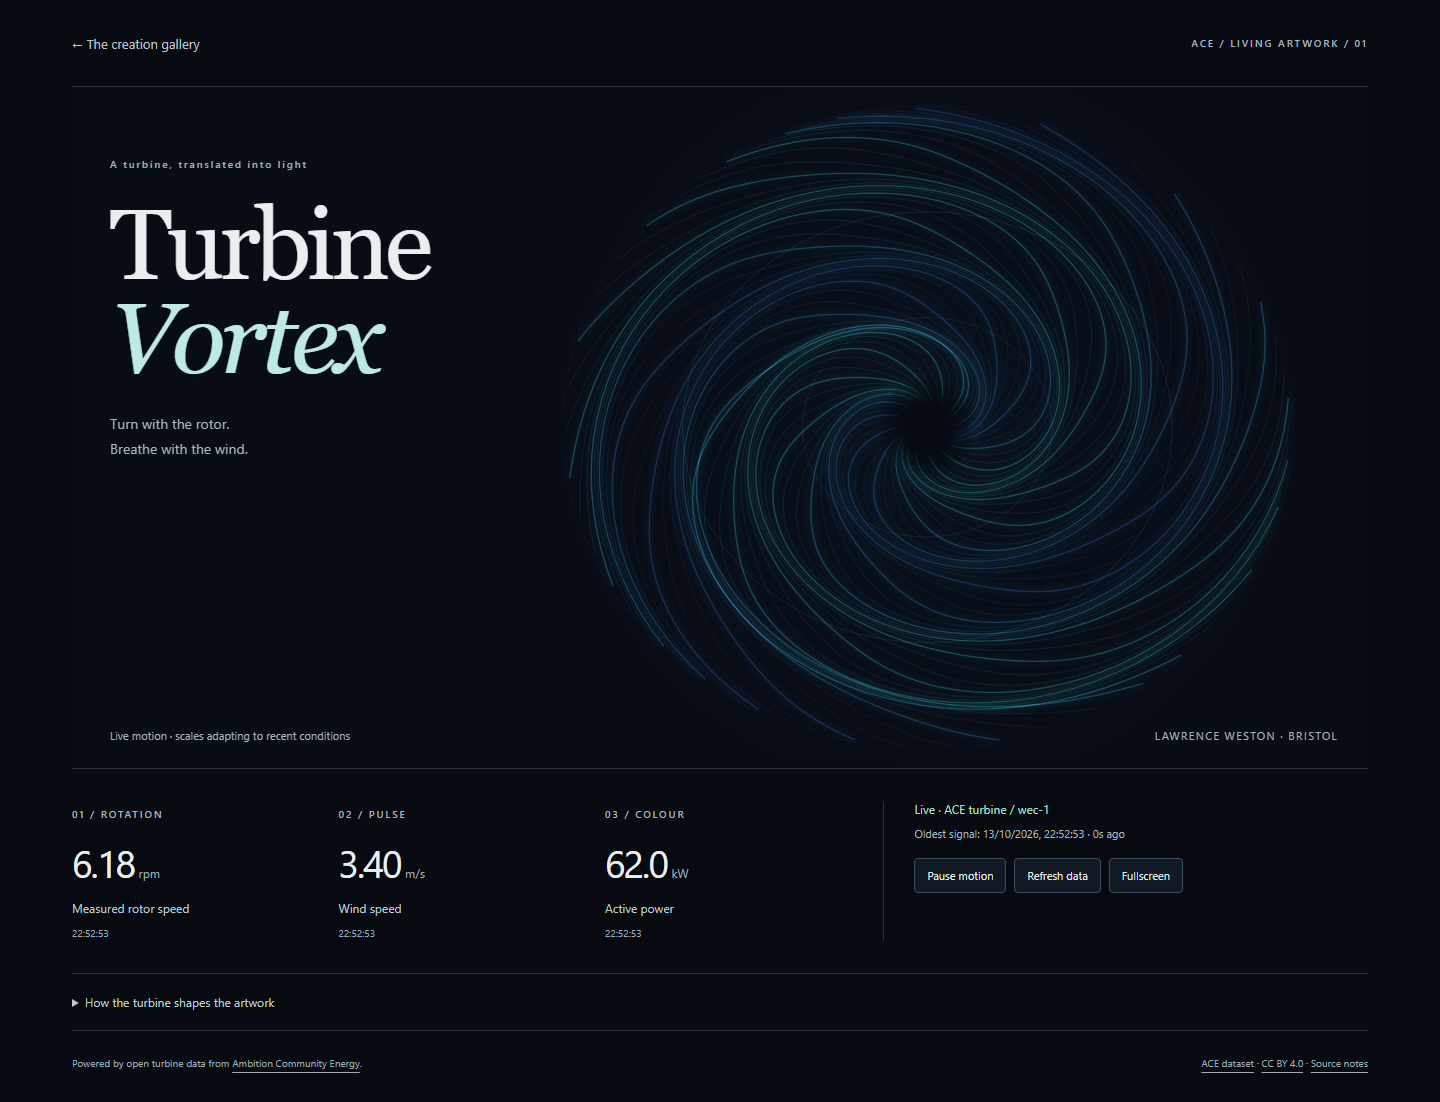
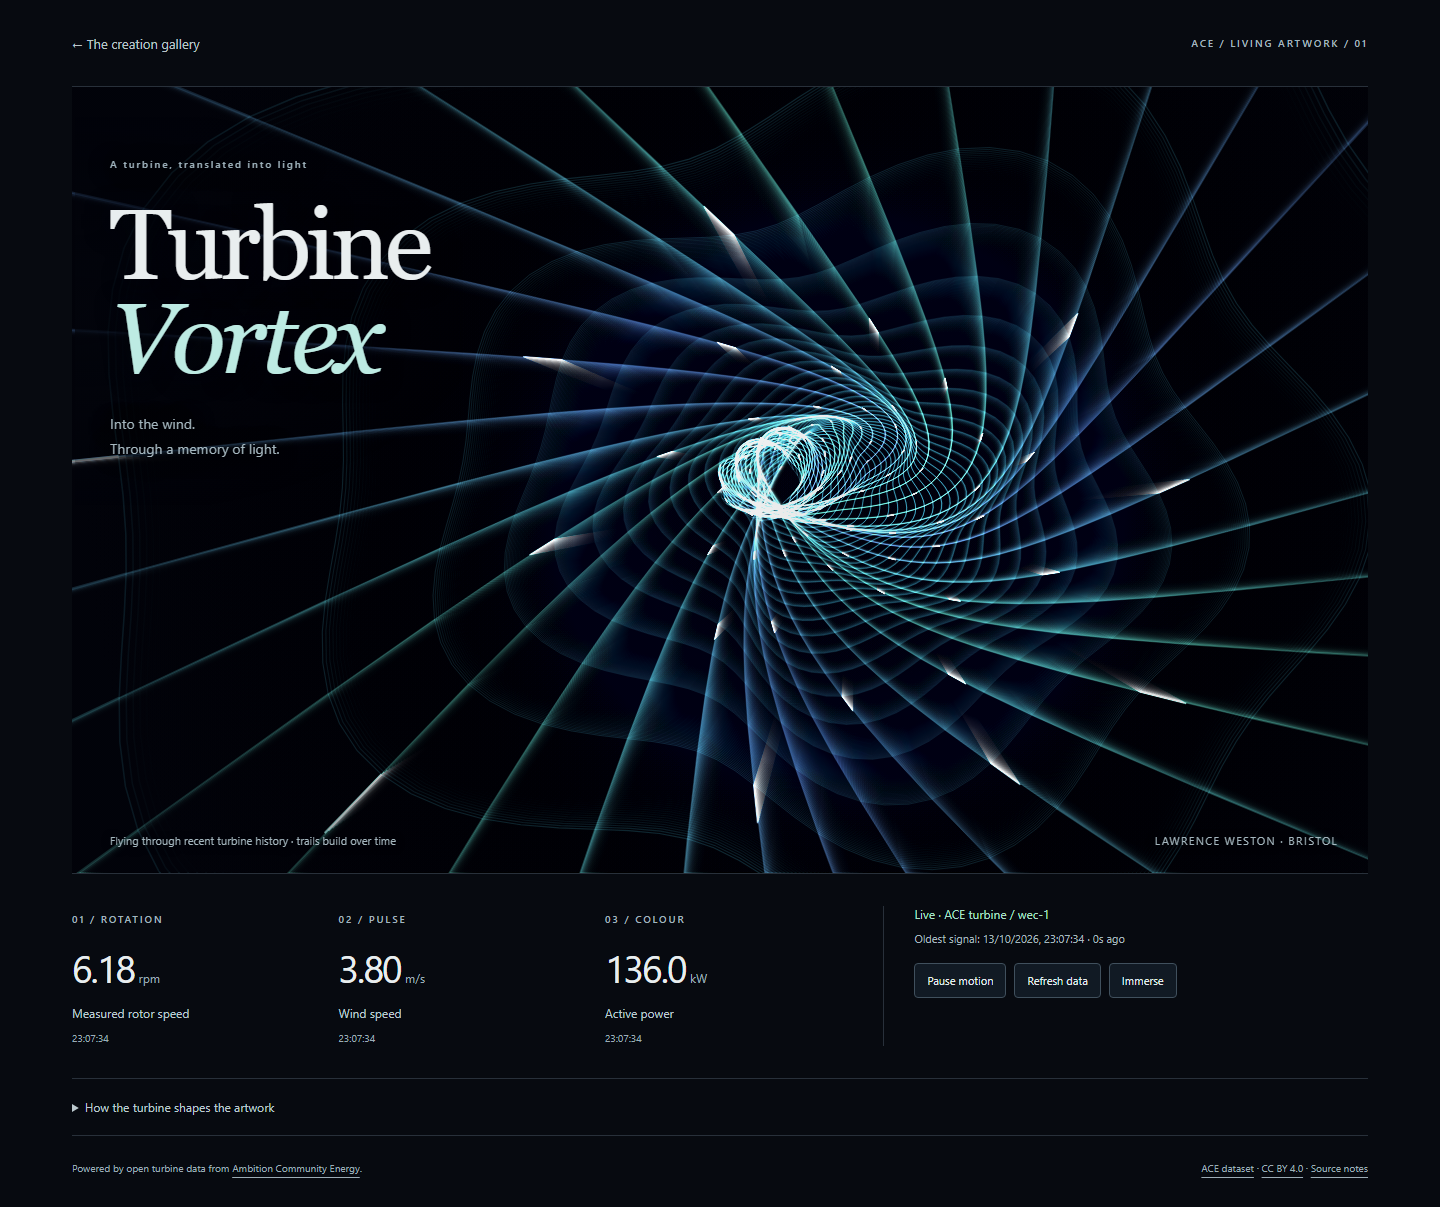
Make Turbine Vortex an immersive tunnel with visual history

diff --git a/site/creations/turbine-vortex/index.html b/site/creations/turbine-vortex/index.html
@@ -2,12 +2,12 @@
 <html lang="en"><head><meta charset="utf-8"><meta name="viewport" content="width=device-width, initial-scale=1"><meta name="description" content="A living vortex of light shaped by ACE turbine rotor speed, wind and power."><title>Turbine Vortex · ACE living artwork</title><link rel="stylesheet" href="./style.css"></head>
 <body><main>
 <header><a class="back" href="../../">← The creation gallery</a><span class="eyebrow">ACE / LIVING ARTWORK / 01</span></header>
-<section class="artwork" aria-labelledby="title"><canvas id="vortex" role="img" aria-label="Luminous spiral trails: rotor speed drives rotation, wind drives pulses, and power colours the light."></canvas><div class="intro"><p class="eyebrow">A turbine, translated into light</p><h1 id="title">Turbine<br><em>Vortex</em></h1><p class="description">Turn with the rotor.<br>Breathe with the wind.</p></div><div class="art-caption"><span id="mode">Waiting for turbine observations</span><span class="coordinates">LAWRENCE WESTON · BRISTOL</span></div></section>
+<section class="artwork" aria-labelledby="title"><canvas id="vortex" role="img" aria-label="A glowing perspective tunnel flies towards the viewer, carrying the colours and shapes of recent turbine readings."></canvas><div class="intro"><p class="eyebrow">A turbine, translated into light</p><h1 id="title">Turbine<br><em>Vortex</em></h1><p class="description">Into the wind.<br>Through a memory of light.</p></div><div class="art-caption"><span id="mode">Waiting for turbine observations</span><span class="coordinates">LAWRENCE WESTON · BRISTOL</span></div></section>
 <section class="instrument" aria-label="Turbine observations and artwork controls"><div class="readings">
 <div><span class="eyebrow">01 / ROTATION</span><p><strong id="rpm">—</strong> <span>rpm</span></p><span class="label">Measured rotor speed</span><time id="rpm-time">No observation</time></div>
 <div><span class="eyebrow">02 / PULSE</span><p><strong id="wind">—</strong> <span>m/s</span></p><span class="label">Wind speed</span><time id="wind-time">No observation</time></div>
 <div><span class="eyebrow">03 / COLOUR</span><p><strong id="power">—</strong> <span>kW</span></p><span class="label">Active power</span><time id="power-time">No observation</time></div></div>
-<div class="connection"><p id="status" role="status">Connecting to ACE…</p><p id="observed">No readings yet</p><div class="controls"><button id="pause" type="button" aria-pressed="false">Pause motion</button><button id="refresh" type="button">Refresh data</button><button id="fullscreen" type="button">Fullscreen</button></div></div></section>
-<details><summary>How the turbine shapes the artwork</summary><div class="explanation"><p>Measured RPM sets the swirl. Wind shapes soft outward pulses. Power moves the palette from violet through cyan to warm gold. These are artistic mappings, not a physical simulation.</p><p>Wind and power adapt to their last five minutes of fresh observations. The range adjusts slowly and has a minimum span, letting small changes show without exaggerating tiny fluctuations. Brightness also follows absolute power. The range starts learning when you open this page.</p><p>One combined request every two seconds. Each signal’s observation time is shown in your local timezone. Signals older than 60 seconds are stale; if any signal is stale or unavailable, the artwork rests and any retained numbers are clearly marked. No simulated readings replace live data.</p></div></details>
+<div class="connection"><p id="status" role="status">Connecting to ACE…</p><p id="observed">No readings yet</p><div class="controls"><button id="pause" type="button" aria-pressed="false">Pause motion</button><button id="refresh" type="button">Refresh data</button><button id="fullscreen" type="button">Immerse</button></div></div></section>
+<details><summary>How the turbine shapes the artwork</summary><div class="explanation"><p>Measured RPM sets the swirl. Wind shapes rippling tunnel walls and the pace of travel. Power moves the palette from violet through cyan to warm gold. Rings and streaks rush towards you and pass beyond the screen. Each layer keeps the conditions that formed it, while fading trails leave a phosphor-like echo. These are artistic mappings, not a physical simulation.</p><p>Wind and power adapt to their last five minutes of fresh observations. The range adjusts slowly and has a minimum span, letting small changes show without exaggerating tiny fluctuations. Brightness also follows absolute power. The range starts learning when you open this page. Visual history builds over roughly 20–40 seconds of active motion; older layers move past you. The initial tunnel uses the first real reading throughout, then develops its own history.</p><p>One combined request every two seconds. Each signal’s observation time is shown in your local timezone. Signals older than 60 seconds are stale; if any signal is stale or unavailable, the artwork rests and any retained numbers are clearly marked. No simulated readings replace live data.</p></div></details>
 <footer><span>Powered by open turbine data from <a href="https://ambitioncommunityenergy.org/">Ambition Community Energy</a>.</span><span><a href="https://doi.org/10.5281/zenodo.22662372">ACE dataset</a> · <a href="https://creativecommons.org/licenses/by/4.0/">CC BY 4.0</a> · <a href="./README.md">Source notes</a></span></footer>
 </main><script type="module" src="./artwork.mjs"></script></body></html>

diff --git a/site/creations/turbine-vortex/style.css b/site/creations/turbine-vortex/style.css
@@ -1,2 +1,3 @@
 :root{color-scheme:dark;font-family:system-ui,-apple-system,BlinkMacSystemFont,"Segoe UI",sans-serif;background:#070a10;color:#e9eeef}*{box-sizing:border-box}body{margin:0}main{max-width:1600px;margin:auto;padding:0 5vw}header{height:86px;display:flex;align-items:center;justify-content:space-between;gap:20px}a{color:inherit;text-underline-offset:5px}.back{font-size:13px;color:#bac5c8;text-decoration:none}.eyebrow{font-size:10px;letter-spacing:.19em;font-weight:600;color:#a1b5bf}.artwork{position:relative;min-height:560px;height:65vh;max-height:800px;border-top:1px solid #28303a;border-bottom:1px solid #28303a;overflow:hidden;background:#080c15}canvas{display:block;width:100%;height:100%}.intro{position:absolute;top:60px;left:38px;pointer-events:none}h1{font-family:Georgia,"Times New Roman",serif;font-weight:400;font-size:clamp(60px,7vw,100px);line-height:.94;letter-spacing:-.05em;margin:26px 0}h1 em{font-weight:400;color:#bdebe3}.description{font-size:14px;line-height:1.8;color:#a5b7bf}.art-caption{position:absolute;bottom:25px;left:38px;right:30px;display:flex;justify-content:space-between;gap:20px;color:#a5b7bf;font-size:11px}.coordinates{letter-spacing:.12em}.instrument{display:grid;grid-template-columns:1.6fr 1fr;gap:36px;padding:32px 0}.readings{display:grid;grid-template-columns:repeat(3,1fr);gap:24px}.readings p{margin:15px 0 8px}.readings strong{font-size:clamp(24px,3vw,38px);font-weight:400;font-variant-numeric:tabular-nums;letter-spacing:-.05em}.readings p span{font-size:12px;color:#9cacb6}.label{font-size:12px;color:#bcc9ce}time{display:block;font-size:10px;color:#9cacb6;margin-top:9px;line-height:1.5}.connection{border-left:1px solid #28303a;padding-left:30px}#status{font-size:12px;color:#a8e1c5;margin:0 0 8px}#status[data-state="error"],#status[data-state="stale"]{color:#e8c793}#observed{font-size:11px;line-height:1.6;color:#a5b7bf;margin:0 0 16px}.controls{display:flex;flex-wrap:wrap;gap:8px}button{font:inherit;font-size:11px;padding:9px 12px;border:1px solid #40505d;border-radius:4px;background:#111a24;color:#e1edef;cursor:pointer}button:hover{background:#213342}button:disabled{opacity:.55;cursor:wait}a:focus-visible,button:focus-visible,summary:focus-visible{outline:2px solid #a8e1c5;outline-offset:5px}details{border-top:1px solid #28303a;border-bottom:1px solid #28303a;padding:20px 0;color:#bcc9ce;font-size:12px}summary{cursor:pointer}.explanation{max-width:800px;line-height:1.9;color:#a5b7bf}footer{display:flex;justify-content:space-between;gap:20px;padding:24px 0 30px;font-size:10px;color:#9cacb6;line-height:1.7}main:fullscreen{max-width:none;width:100%;overflow:auto;background:#070a10}main:fullscreen .artwork{height:72vh}@media(max-width:760px){main{padding:0 6vw}header{height:68px}header>.eyebrow{display:none}.artwork{height:64vh;min-height:440px}.intro{top:28px;left:22px}h1{font-size:60px}.intro>.eyebrow{font-size:8px}.description{font-size:12px}.art-caption{left:22px;right:22px;bottom:20px}.coordinates{display:none}.instrument{grid-template-columns:1fr;gap:24px;padding:25px 0}.readings{gap:12px}.readings .eyebrow{font-size:8px;letter-spacing:.09em}.connection{border-left:0;border-top:1px solid #28303a;padding:20px 0 0}footer{flex-direction:column;gap:8px}.label{font-size:10px}time{font-size:9px}}
 @media(max-width:760px){.intro h1{font-size:48px;margin:18px 0}.intro h1 br{display:none}.intro h1 em{margin-left:.15em}.intro .description{display:none}}
+.artwork{height:75vh;min-height:650px;max-height:1000px}.intro{z-index:1;text-shadow:0 2px 24px #02040b}.intro:before{content:"";position:absolute;inset:-30px -35px;background:radial-gradient(ellipse at left,rgba(3,5,12,.8),transparent 75%);z-index:-1;pointer-events:none}.art-caption{z-index:1;text-shadow:0 1px 8px #000}main:fullscreen{padding:0;position:relative;overflow:hidden}main:fullscreen header{position:absolute;top:0;left:4vw;right:4vw;z-index:3}main:fullscreen .artwork{height:100vh;max-height:none;border:0}main:fullscreen .intro{left:4vw;top:100px;opacity:.8}main:fullscreen h1{font-size:64px}main:fullscreen .description{display:none}main:fullscreen .instrument{position:absolute;bottom:0;left:0;right:0;padding:20px 4vw;background:linear-gradient(transparent,rgba(3,5,12,.92) 30%);z-index:3}main:fullscreen .art-caption{bottom:175px;left:4vw}main:fullscreen details,main:fullscreen footer{display:none}@media(max-width:760px){.artwork{min-height:550px;height:72vh}.intro{top:24px}main:fullscreen .intro{top:70px}main:fullscreen h1{font-size:38px}main:fullscreen .instrument{gap:12px;padding:15px 5vw}main:fullscreen .connection{padding-top:12px}main:fullscreen .art-caption{bottom:270px}main:fullscreen header{height:50px}}

diff --git a/site/creations/turbine-vortex/browser-check.py b/site/creations/turbine-vortex/browser-check.py
@@ -94,6 +94,12 @@ def run():
         page.wait_for_function("document.querySelector('#status').textContent.startsWith('Live')", timeout=15000)
         assert requests[before] - limited_at >= 4.9, f'Retry-After gap={requests[before] - limited_at:.3f}, gaps={[round(b-a,3) for a,b in zip(requests,requests[1:])]}'
         assert all(b - a >= 1.9 for a, b in zip(requests, requests[1:])), 'Requests too close'
+        page.locator('#fullscreen').click()
+        page.wait_for_function('document.fullscreenElement !== null')
+        assert page.locator('.artwork').evaluate('el => Math.abs(el.getBoundingClientRect().height - innerHeight) < 2')
+        page.screenshot(path=str(Path(tempfile.gettempdir()) / 'turbine-vortex-immersive-check.png'))
+        page.locator('#fullscreen').click()
+        page.wait_for_function('document.fullscreenElement === null')
         page.set_viewport_size({'width': 390, 'height': 844})
         page.wait_for_timeout(300)
         assert page.evaluate('document.documentElement.scrollWidth <= innerWidth'), 'Mobile overflow'
@@ -109,14 +115,14 @@ def run():
         live.on('pageerror', lambda error: errors.append(str(error)))
         live.goto(url)
         live.wait_for_function("document.querySelector('#status').textContent.startsWith('Live')", timeout=30000)
-        live.wait_for_timeout(5000)
+        live.wait_for_timeout(8000)
         live.screenshot(path=str(ROOT / 'site/images/creations/turbine-vortex.png'), full_page=True)
         print('Live browser readings:', live.locator('.readings').inner_text())
         print('Screenshot:', ROOT / 'site/images/creations/turbine-vortex.png')
         assert not errors, errors
         browser.close()
     server.shutdown()
-    print('PASS: prefix, live, narrow screen, focus, pause, reduced motion, zero, stale, invalid, offline, recovery, cooldown, Retry-After')
+    print('PASS: prefix, live, immersion, narrow screen, focus, pause, reduced motion, zero, stale, invalid, offline, recovery, cooldown, Retry-After')
 
 if __name__ == '__main__':
     run()

diff --git a/site/creations/turbine-vortex/README.md b/site/creations/turbine-vortex/README.md
@@ -1,12 +1,12 @@
 # Turbine Vortex
 
-A dependency-free living canvas artwork by charlie9578. Measured rotor speed drives luminous spiral rotation, wind speed shapes outward pulses, and power colours the light. All code, styling and assets belong to this folder; no build, keys or paid services are required.
+A dependency-free living canvas artwork by charlie9578. Fly through a luminous tunnel shaped by measured rotor speed, wind and power. Cross-sections remember the conditions that formed them, grow towards the viewer, and pass beyond the screen. All code, styling and assets belong to this folder; no build, keys or paid services are required.
 
 ## Reproduce
 
 From the repository root run `python -m http.server 8000`, then open <http://localhost:8000/site/creations/turbine-vortex/>. To test the Pages path prefix, serve the repository's parent directory and visit `/WeDoWind-ODE-ACE-Challenge/site/creations/turbine-vortex/`. The deployed Pages URL omits `site/`: <https://wedowind.github.io/WeDoWind-ODE-ACE-Challenge/creations/turbine-vortex/>. It becomes available only after upstream merge and Pages deployment.
 
-Pause motion leaves live readings updating. Reduced-motion preferences start the artwork paused; Resume motion explicitly opts in. Fullscreen is optional. Hidden pages stop animation and polling.
+Pause motion freezes travel, history and trails while leaving live readings updating. Reduced-motion preferences start the artwork paused; Resume motion explicitly opts in. **Immerse** fills the screen with the tunnel, with readings and controls overlaid below it. Hidden pages stop animation and polling.
 
 ## Live data contract
 
@@ -22,11 +22,15 @@ Docs, OpenAPI, `/v1/sites`, `/v1/sites/ace/assets`, `/v1/families` and a live co
 
 ## Artistic mapping and adaptive scale
 
-Rotor angular velocity is `RPM × 2π/60 × 0.55`, capped at 30 RPM as an artistic comfort bound. Rotation eases towards the measured speed with a 2.5-second time constant, including a transition to stillness at zero.
+Rotor angular velocity is `RPM × 2π/60 × 0.65`, capped at 30 RPM as an artistic comfort bound. Rotation eases towards the measured speed with a 2.5-second time constant. Zero RPM stops rotation; artistic forward travel can continue when all signals are fresh.
 
 Wind and power each use five minutes of fresh, distinct observations collected since opening the page. Their 10th–90th percentile ranges resist spikes. The range centre/span adapt with a 30-second time constant. Minimum spans are **1.5 m/s** and **250 kW**; constant values map to the centre, not an extreme. Duplicate observations do not overweight the history. There is no historical API request. Normalized targets are clamped and eased over 2.5 seconds.
 
-Wind sets pulse rate (0.09–0.25 cycles/second) and amplitude; zero wind stops pulses. Adaptive power sets a violet → cyan → gold palette. Absolute power adds brightness using `0.22 + 0.6 × sqrt(clamp(power/4200))`; the API introduction documents the turbine's 4.2 MW nominal power. These mappings express conditions rather than simulate turbine physics or energy totals.
+Wind controls the rippling wall deformation and forward camera speed. Adaptive power sets a violet → cyan → gold palette. Absolute power adds brightness using `0.4 + 0.5 × sqrt(clamp(power/4200))`; the API introduction documents the turbine's 4.2 MW nominal power. These mappings express conditions rather than simulate turbine physics or energy totals. Forward travel is an artistic effect, not a claim about actual turbine movement or wind distance.
+
+`tunnel.mjs` keeps an in-memory sequence of cross-sections. Every 0.48 seconds of active animation a new layer stores the smoothed wind, power, brightness, rotor-driven twist and current observation time. Those attributes remain attached to it as it approaches the viewer. Perspective expansion makes layers and bright beads pass out of the frame. Thirty-two twisting wall filaments join them into a continuous tunnel. Wind-dependent travel yields roughly **21–42 seconds of active visual history**; old layers are discarded and storage is capped at 110 layers. Startup geometry is initialized together from the first live state, not a fabricated historical feed. History then develops from readings received during this visit, without extra API requests or persistent storage.
+
+The canvas uses frame-rate-independent exponential fading with a 0.32-second time constant, leaving visible phosphor-like echoes for about 1.5 seconds. Pause stops both layer movement and trail decay. Stale/unavailable data draws a still subdued tunnel; recovery resumes the retained layers. Resizing clears pixel trails but retains layer history. No external images or rendering libraries are used.
 
 ## Attribution and licence
 
@@ -38,4 +42,4 @@ Code and original canvas artwork/screenshot: MIT, see `LICENSE`. The poller is c
 
 ## Validation
 
-Run `node scripts/validate.mjs` from the repository root and `node --test site/creations/turbine-vortex/signals.test.mjs site/creations/turbine-vortex/poller.test.mjs` for signal, adaptive-range and poller checks. Optional browser QA uses `python site/creations/turbine-vortex/browser-check.py` (install developer-only `playwright` and its Chromium browser first). It starts and stops a temporary local server, checks the repository prefix, desktop/mobile, keyboard focus, pause/reduced motion, live readings, stale/invalid/offline responses, recovery, refresh cooldown and exposed `Retry-After`, and updates the gallery screenshot using actual live readings. Mock readings are used only in tests, never as a production fallback. All checks passed on 13 October 2026, including live browser access. The gallery listing is separate from the official WeDoWind challenge comment.
+Run `node scripts/validate.mjs` from the repository root and `node --test site/creations/turbine-vortex/signals.test.mjs site/creations/turbine-vortex/poller.test.mjs site/creations/turbine-vortex/tunnel.test.mjs` for signal, adaptive-range, poller and history-retention checks, including a simulated hour of bounded layer storage. Optional browser QA uses `python site/creations/turbine-vortex/browser-check.py` (install developer-only `playwright` and its Chromium browser first). It starts and stops a temporary local server, checks the repository prefix, desktop/mobile, immersion, keyboard focus, pause/reduced motion, live readings, stale/invalid/offline responses, recovery, refresh cooldown and exposed `Retry-After`, and updates the gallery screenshot using actual live readings. Mock readings are used only in tests, never as a production fallback. All checks passed on 13 October 2026, including live browser access. The gallery listing is separate from the official WeDoWind challenge comment.
